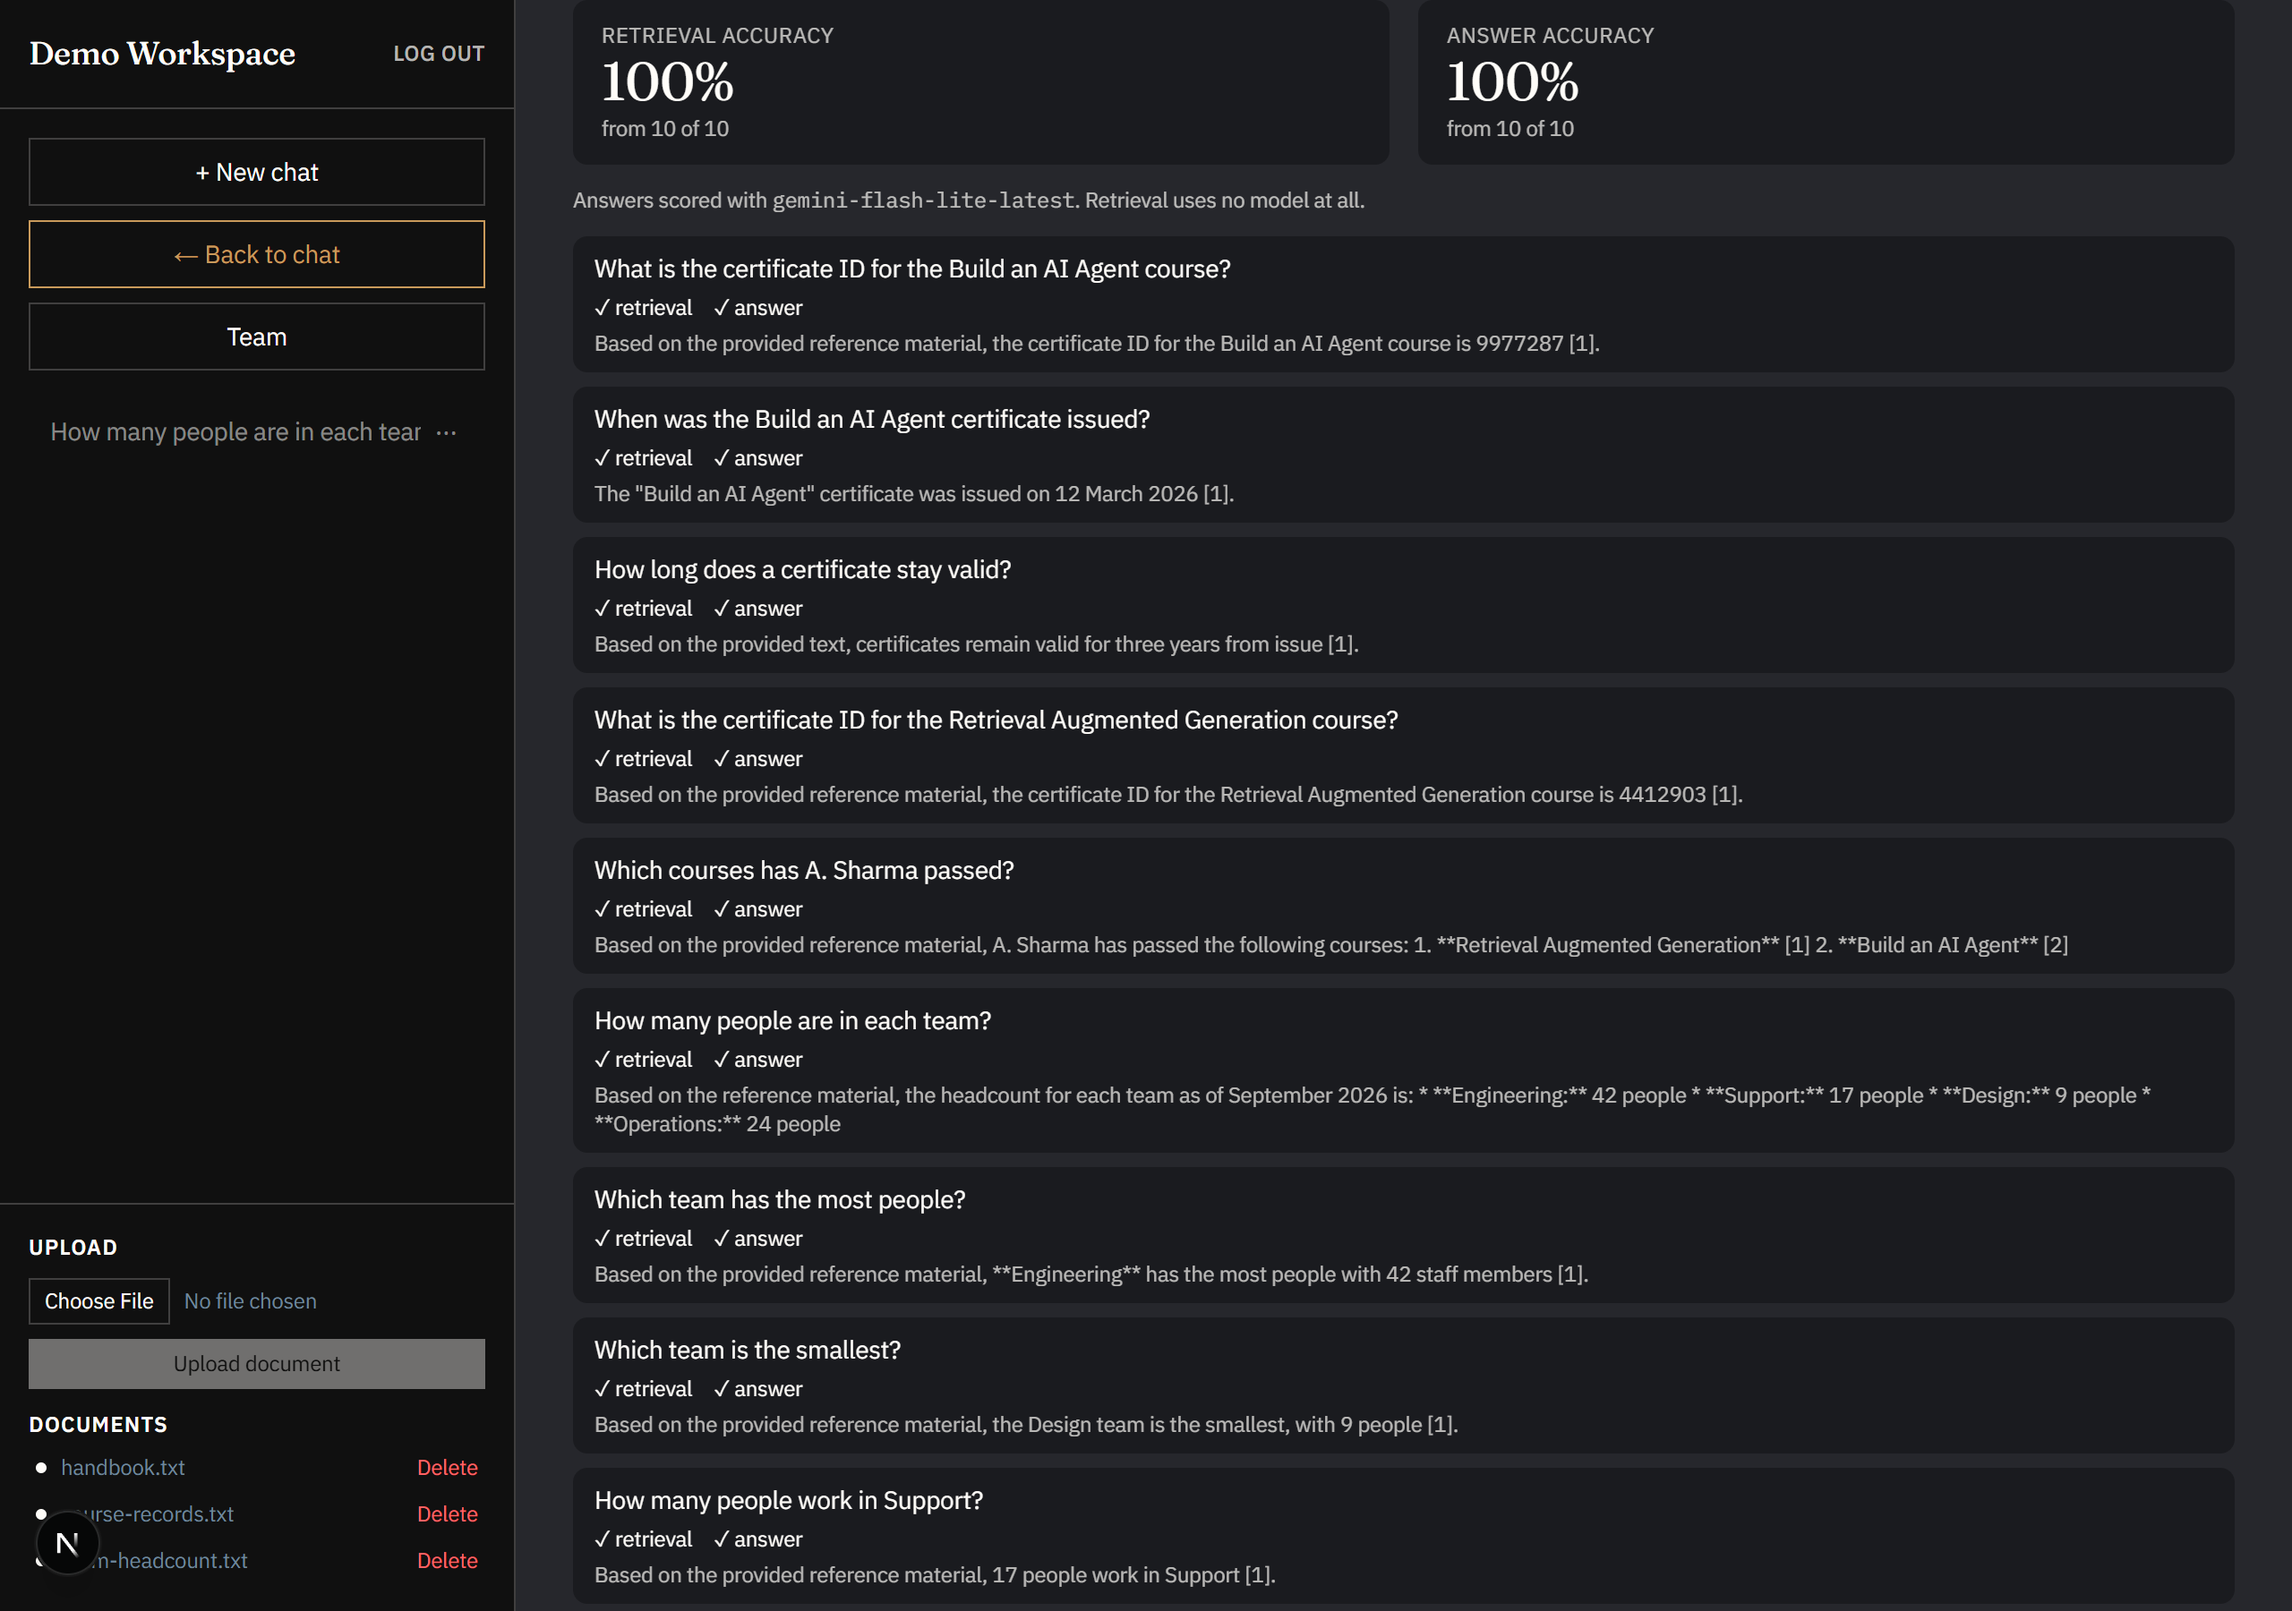
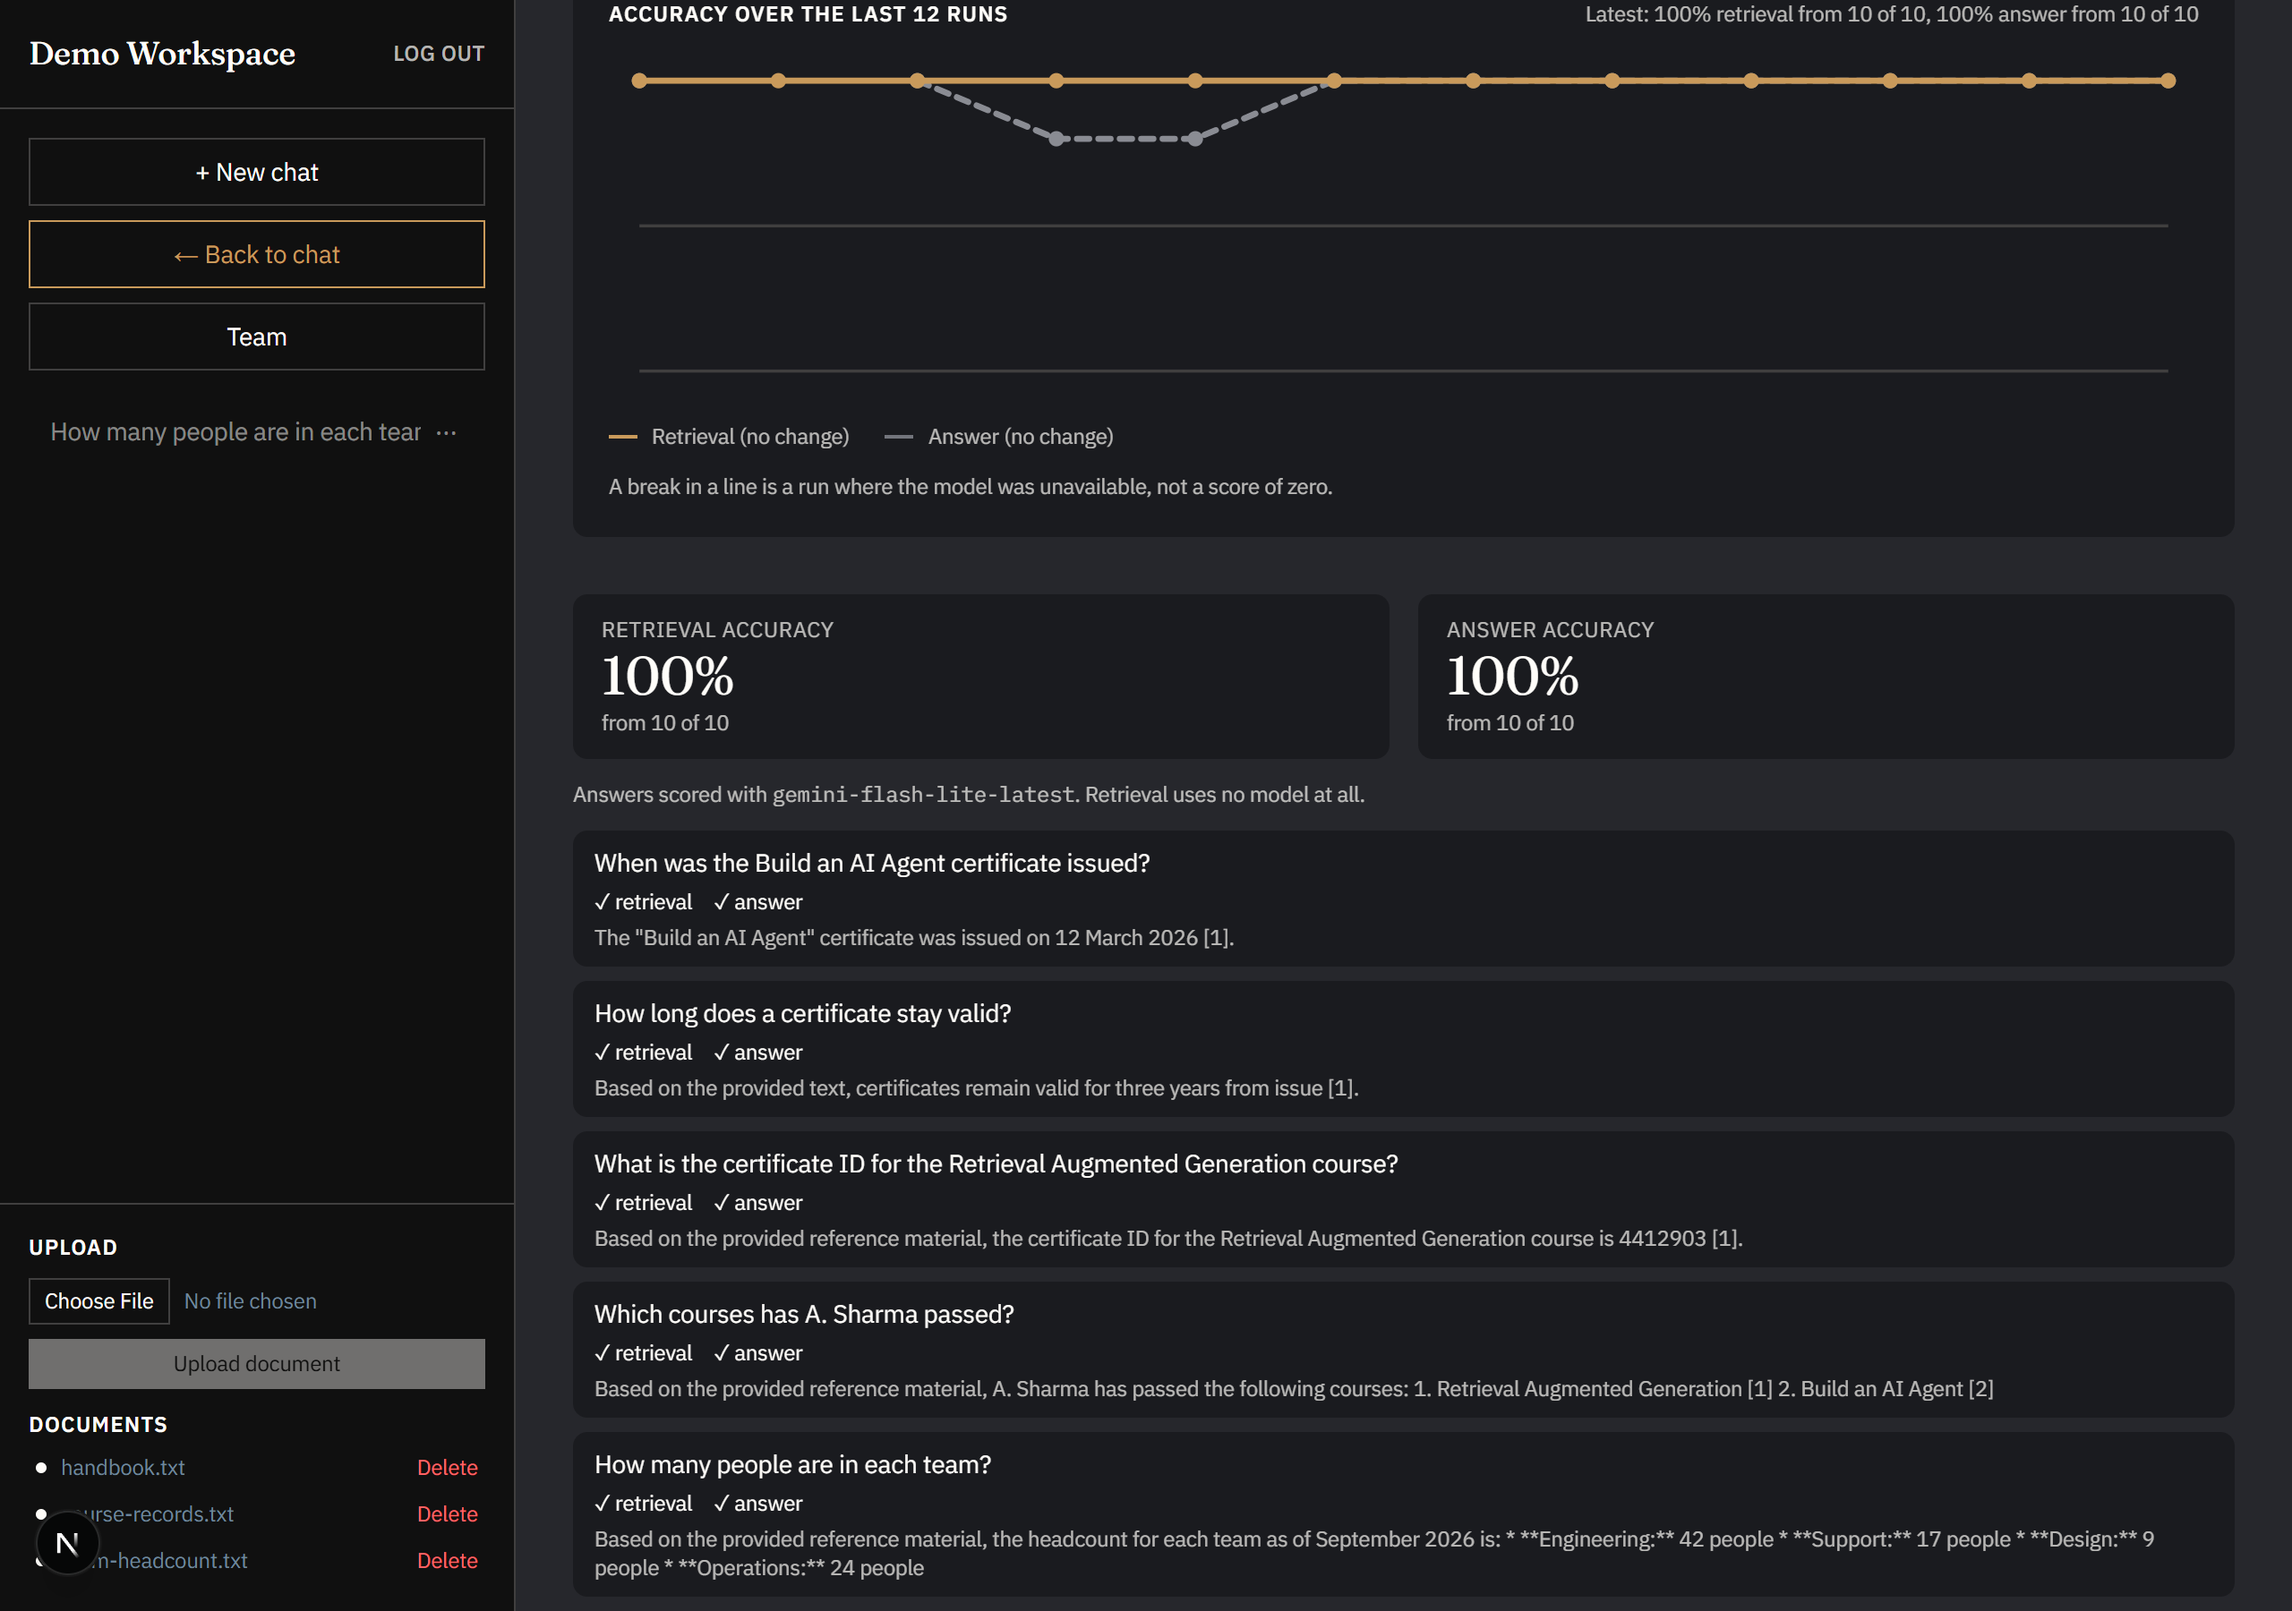
Show the signup page and refresh the evaluation screenshot

diff --git a/lib/__tests__/retrieval.test.ts b/lib/__tests__/retrieval.test.ts
@@ -15,8 +15,8 @@ describe('mergeMatches', () => {
   })
 
   it('keeps a keyword only result, which is the whole reason both searches run', () => {
-    const merged = mergeMatches([chunk('a')], [chunk('code-9977388')], 6)
-    expect(merged.map((m) => m.id)).toContain('code-9977388')
+    const merged = mergeMatches([chunk('a')], [chunk('code-ABC123')], 6)
+    expect(merged.map((m) => m.id)).toContain('code-ABC123')
   })
 
   it('stops at the number asked for, so the prompt cannot grow without bound', () => {

diff --git a/README.md b/README.md
@@ -19,7 +19,7 @@
 
 ![The evaluation harness](docs/screenshots/evaluation.png)
 
-*The project measures itself. Each saved question names the document it should find and the words the answer should contain, and the panel says which model produced the answers. Retrieval and answer coverage are counted separately, because searching needs no model at all. The scores shown are from a small demo workspace used for these screenshots, not a benchmark.*
+*The project measures itself. Each saved question names the document it should find and the words the answer should contain, and the panel says which model produced the answers. Retrieval and answer coverage are counted separately, because searching needs no model at all, and every run is kept so the scores can be compared over time rather than judged one at a time. The ten questions shown are a small demo workspace used for these screenshots, not the 41-question set the figures elsewhere in this README come from.*
 
 <details>
 <summary><b>More screenshots</b></summary>
@@ -30,9 +30,9 @@
 
 *Each source is shown with the passage it contributed. A citation is marked verified only when its wording matches the text it points at.*
 
-![Sign in](docs/screenshots/login.png)
+![Create a workspace](docs/screenshots/signup.png)
 
-*The auth pages, with a WebGL background drawn without an animation library.*
+*Signing up creates the account and its workspace in one step, which is where the multi-tenancy starts. The background is raw WebGL, drawn without an animation library.*
 
 </details>
 
